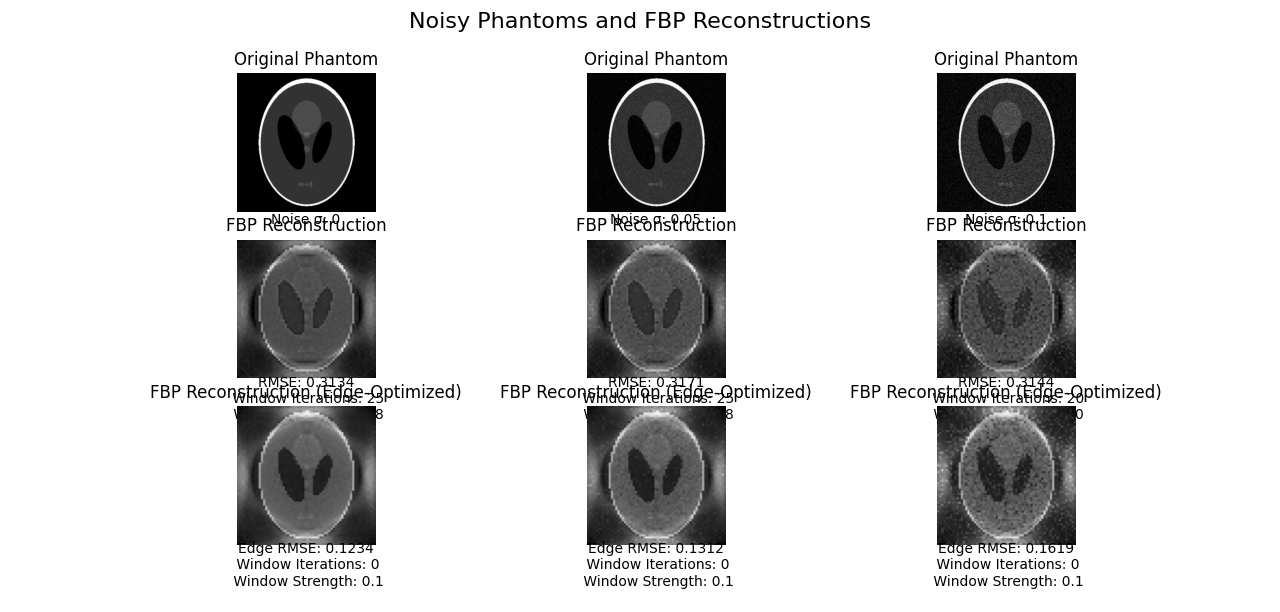
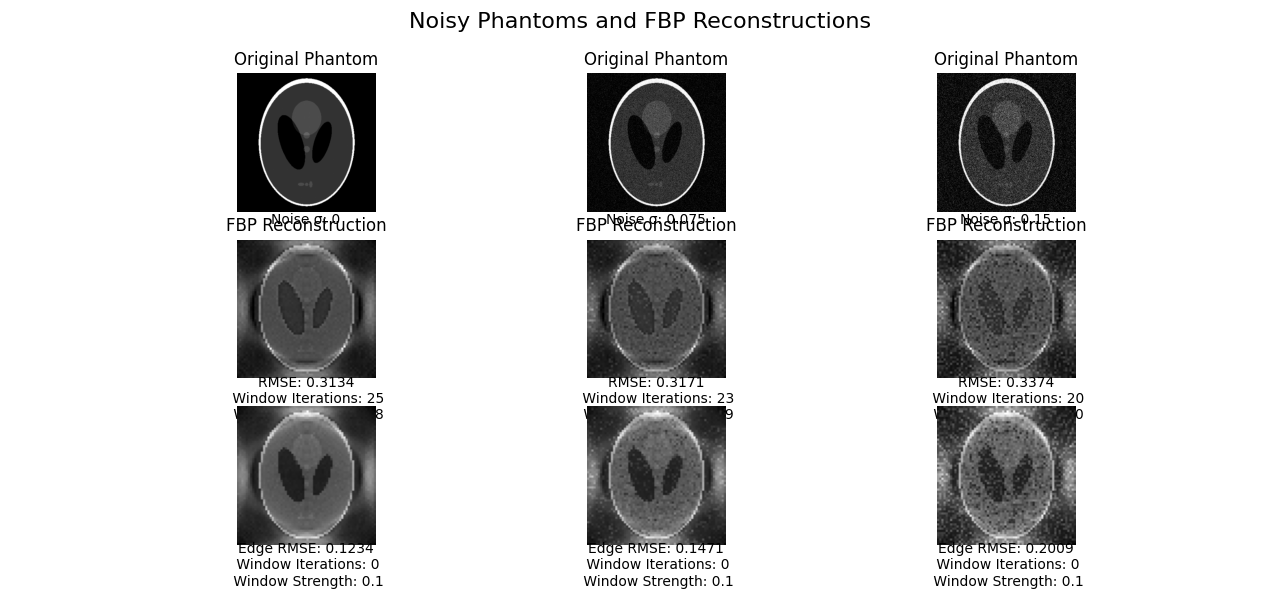
more fbp noise stuff

diff --git a/models/FBP_noise.py b/models/FBP_noise.py
@@ -89,10 +89,10 @@ x_ref_corrected = np.flipud(x_ref.reshape(n, n)).flatten()
 x_ref_corrected = x_ref_corrected.astype(float)
 x_ref_norm = (x_ref_corrected - np.min(x_ref_corrected)) / (np.max(x_ref_corrected) - np.min(x_ref_corrected))
 
-sigmas = [0, 0.05, 0.1]
+sigmas = [0, 0.075, 0.15]
 
-fig_imgs, axes_imgs = plt.subplots(3, len(sigmas), figsize=(3*len(sigmas), 10))
-fig_heatmaps, axes_heatmaps = plt.subplots(2, len(sigmas), figsize=(3*len(sigmas), 8))
+fig_imgs, axes_imgs = plt.subplots(3, len(sigmas), figsize=(3*len(sigmas), 12))
+fig_heatmaps, axes_heatmaps = plt.subplots(2, len(sigmas), figsize=(3*len(sigmas), 9))
 
 for i, sigma in enumerate(sigmas):
     noisy_image = phantom + np.random.normal(0, sigma, phantom.shape)
@@ -165,7 +165,7 @@ for i, sigma in enumerate(sigmas):
     axes_imgs[1,i].axis('off')
 
     axes_imgs[2,i].imshow(x_norm_optimal_edge, cmap='gray')
-    axes_imgs[2,i].set_title('FBP Reconstruction (Edge-Optimized)')
+    #axes_imgs[2,i].set_title('FBP Reconstruction (Edge-Optimized)')
     axes_imgs[2,i].text(0.5, -0.15, f'Edge RMSE: {best_edge_rmse:.4f}\n Window Iterations: {optimal_w_iter_edge}\n Window Strength: {optimal_w_str_edge}', 
          ha='center', va='center', transform=axes_imgs[2,i].transAxes)
     axes_imgs[2,i].axis('off')
